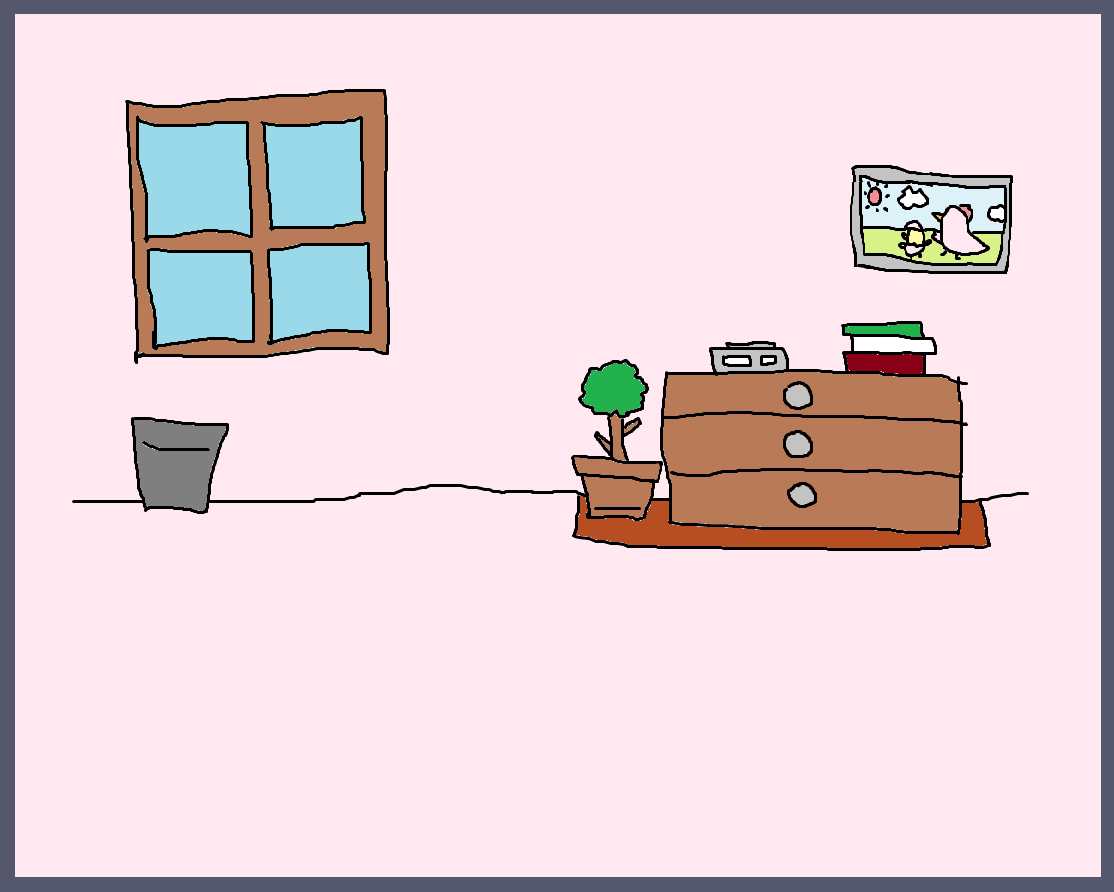
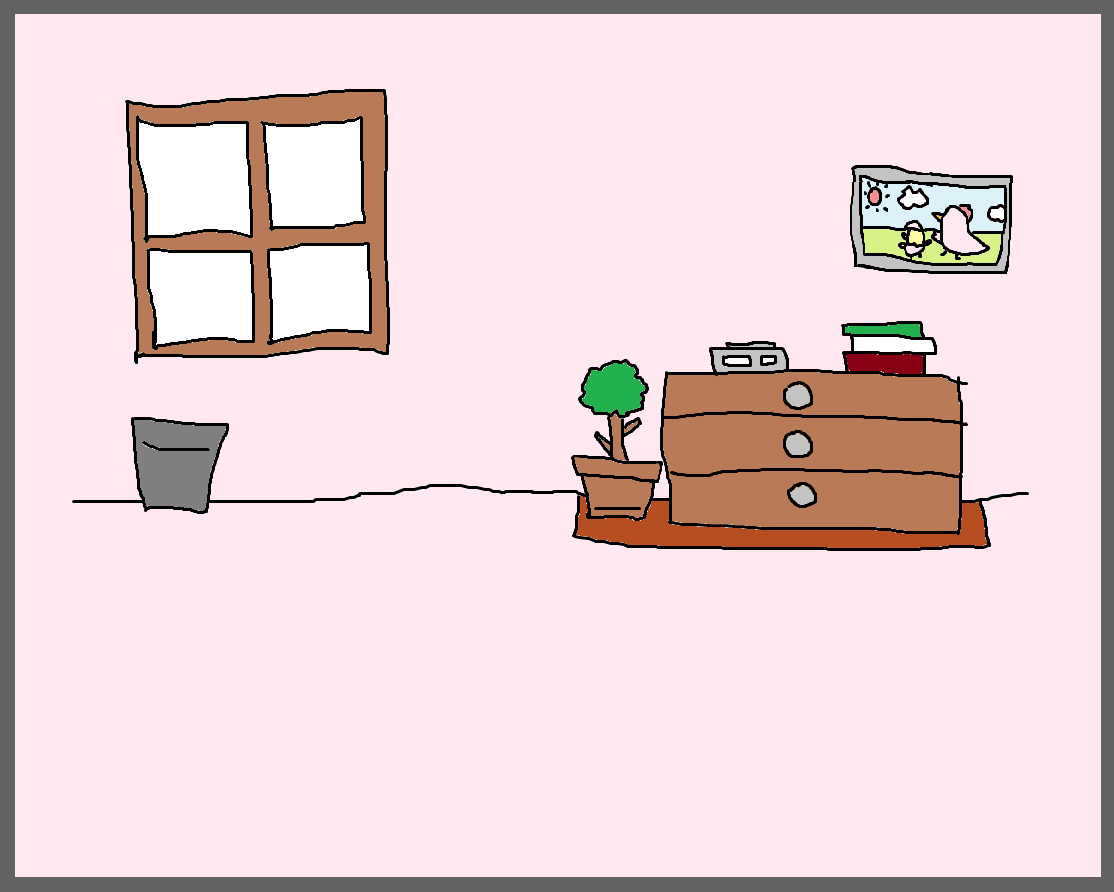
時間帯によって背景が変わるように

Changed region(s): [[0.1221, 0.1211, 0.3357, 0.3935]]

diff --git a/app/controllers/games_controller.rb b/app/controllers/games_controller.rb
@@ -40,6 +40,8 @@ class GamesController < ApplicationController
       end
       @temp = current_user.event_temporary_datum
     end
+
+    set_base_background_image
   end
 
   def select_action
@@ -263,5 +265,18 @@ class GamesController < ApplicationController
       derived_event = event_set.events.find_by!(derivation_number: 0)
     end
     [ event_set, derived_event ]
+  end
+
+  def set_base_background_image
+    current_hour = Time.zone.now.hour
+    @base_background_image =
+      case current_hour
+      when 6...17
+        "base_background/kari-base_background1.png"
+      when 17...18
+        "base_background/kari-base_background2.png"
+      else
+        "base_background/kari-base_background3.png"
+      end
   end
 end
